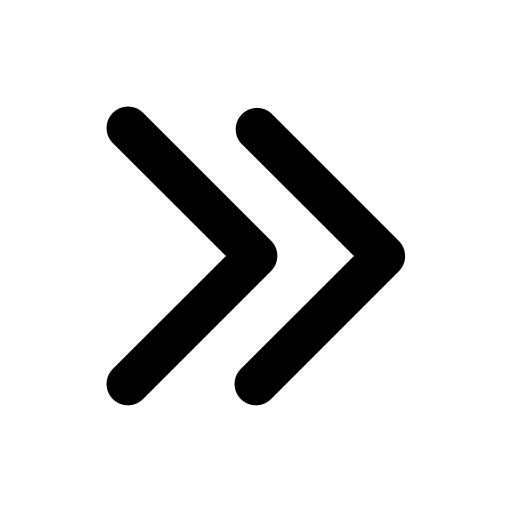
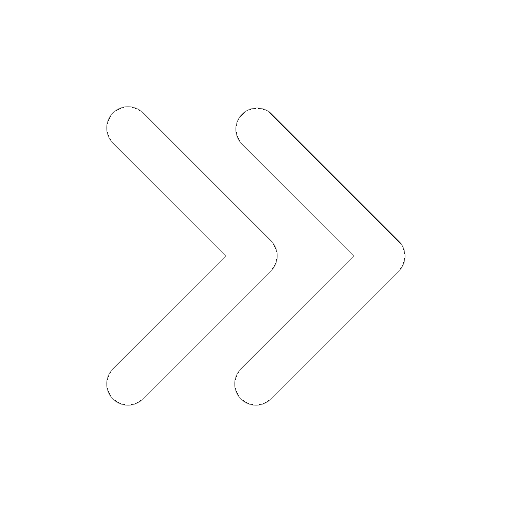
Updates

Changed region(s): [[0.1875, 0.1875, 0.5625, 0.8125], [0.4375, 0.1875, 0.8125, 0.8125]]

diff --git a/sw.js b/sw.js
@@ -1,1 +1,1 @@
-if(!self.define){let e,s={};const n=(n,l)=>(n=new URL(n+".js",l).href,s[n]||new Promise(s=>{if("document"in self){const e=document.createElement("script");e.src=n,e.onload=s,document.head.appendChild(e)}else e=n,importScripts(n),s()}).then(()=>{let e=s[n];if(!e)throw new Error(`Module ${n} didn’t register its module`);return e}));self.define=(l,i)=>{const r=e||("document"in self?document.currentScript.src:"")||location.href;if(s[r])return;let o={};const a=e=>n(e,r),u={module:{uri:r},exports:o,require:a};s[r]=Promise.all(l.map(e=>u[e]||a(e))).then(e=>(i(...e),o))}}define(["./workbox-bdb082da"],function(e){"use strict";self.skipWaiting(),e.clientsClaim(),e.precacheAndRoute([{url:"vite.svg",revision:"8e3a10e157f75ada21ab742c022d5430"},{url:"registerSW.js",revision:"bb1e455dc79c04e6210fa72213e31a4e"},{url:"muscle.svg",revision:"dc1a8eee285740422ed9fc34b0ad91df"},{url:"index.html",revision:"2409eed2bdbe522202842ffeb5f91aea"},{url:"icon-512.png",revision:"61d2cb498f2c9083308432c7224dceaa"},{url:"icon-192.png",revision:"c452d73bea6a61804e8a31c63aec638f"},{url:"assets/WingsofStrength-Logo-2019-RGB-DRhgHrX-.png",revision:null},{url:"assets/USA Fed Logo PNG-CxnrlUPo.png",revision:null},{url:"assets/TSUNAMI LOGO-black font-BIR9LDHE.png",revision:null},{url:"assets/thumbnail_2.0 titan-final-registered-jAv88-T9.png",revision:null},{url:"assets/superfitness-ot1TKYUa.png",revision:null},{url:"assets/Steel-Fit-Logo-Horiz-Tag_140851-DMePG8wW.jpg",revision:null},{url:"assets/Rosen LOGO-CweZPPp_.png",revision:null},{url:"assets/REIGN Logo-C0k8grbR.png",revision:null},{url:"assets/REDCON1_MAIN_LOGO_RED-B-KsOSbY.png",revision:null},{url:"assets/red one logo-cwQVg1tO.png",revision:null},{url:"assets/RAW-Logo-01-BD9bQXZw.png",revision:null},{url:"assets/ProTan-DyyOSX43.jpg",revision:null},{url:"assets/Orange and Black Logo-CliRBQB4.png",revision:null},{url:"assets/Olympia Trading Cards Black-BIOrwcSW.png",revision:null},{url:"assets/OFFICAL WOLF HEAD LOGO-11q05Uxd.png",revision:null},{url:"assets/NEWTECH LOGO_OLYMPIA-Cpt64ABa.png",revision:null},{url:"assets/Nebbia-T92H5YCY.jpg",revision:null},{url:"assets/Mutant_Brandmark_Stacked_v1_Black_RGB PREFERRED FOR WHITE BACKGROUND-DOM2-3Vq.png",revision:null},{url:"assets/Logo_stacked_blue-JJfA1f4R.png",revision:null},{url:"assets/logoDKnew-BGzbz8av.png",revision:null},{url:"assets/Logo 2_150944 Enhanced-BY9kUkwd.png",revision:null},{url:"assets/jw sport logo-BKbada1Z.png",revision:null},{url:"assets/IntegralMedicaLogo-Dv_Wgnd1.png",revision:null},{url:"assets/index-DUM_2KRf.js",revision:null},{url:"assets/index-9dGm7ZXG.css",revision:null},{url:"assets/HTP-logo-RGB-BgxPgIaI.png",revision:null},{url:"assets/Gymshark_Combi_Logo_Black-Bjd_43Bd.png",revision:null},{url:"assets/Gym80 black and red logo-BMZvclKY.png",revision:null},{url:"assets/GNC Logo Red-DvYZVH_G.jpg",revision:null},{url:"assets/evolgear_logo_bk-BUhnIpM0.png",revision:null},{url:"assets/Evogen logo title safety white on black2-CH9qPnpF.png",revision:null},{url:"assets/BUM ENERGY LOGO BLACK-BpfpVTbc.png",revision:null},{url:"assets/Biowell_Labs_BIALE NOWA STRONA-SzgmWe0j.png",revision:null},{url:"assets/4-Elev8_Logo-black-Cl_yfecE.png",revision:null},{url:"icon-192.png",revision:"c452d73bea6a61804e8a31c63aec638f"},{url:"icon-512.png",revision:"61d2cb498f2c9083308432c7224dceaa"},{url:"muscle.svg",revision:"dc1a8eee285740422ed9fc34b0ad91df"},{url:"manifest.webmanifest",revision:"e74645f8c6bda2dd33220b0c2d41c894"}],{}),e.cleanupOutdatedCaches(),e.registerRoute(new e.NavigationRoute(e.createHandlerBoundToURL("index.html"))),e.registerRoute(/^https:\/\/.*\.supabase\.co\/.*/i,new e.NetworkFirst({cacheName:"supabase-cache",plugins:[new e.ExpirationPlugin({maxEntries:50,maxAgeSeconds:86400})]}),"GET"),e.registerRoute(/\.(?:png|jpg|jpeg|svg|gif)$/,new e.CacheFirst({cacheName:"images-cache",plugins:[new e.ExpirationPlugin({maxEntries:100,maxAgeSeconds:2592e3})]}),"GET")});
+if(!self.define){let e,s={};const n=(n,l)=>(n=new URL(n+".js",l).href,s[n]||new Promise(s=>{if("document"in self){const e=document.createElement("script");e.src=n,e.onload=s,document.head.appendChild(e)}else e=n,importScripts(n),s()}).then(()=>{let e=s[n];if(!e)throw new Error(`Module ${n} didn’t register its module`);return e}));self.define=(l,i)=>{const r=e||("document"in self?document.currentScript.src:"")||location.href;if(s[r])return;let o={};const a=e=>n(e,r),u={module:{uri:r},exports:o,require:a};s[r]=Promise.all(l.map(e=>u[e]||a(e))).then(e=>(i(...e),o))}}define(["./workbox-bdb082da"],function(e){"use strict";self.skipWaiting(),e.clientsClaim(),e.precacheAndRoute([{url:"vite.svg",revision:"8e3a10e157f75ada21ab742c022d5430"},{url:"registerSW.js",revision:"bb1e455dc79c04e6210fa72213e31a4e"},{url:"muscle.svg",revision:"dc1a8eee285740422ed9fc34b0ad91df"},{url:"index.html",revision:"2409eed2bdbe522202842ffeb5f91aea"},{url:"icon-512.png",revision:"7782f43d50ac0499ee5c931b5b95bed2"},{url:"icon-192.png",revision:"7cfe4682b7df06d558eb6bd44323eca8"},{url:"assets/WingsofStrength-Logo-2019-RGB-DRhgHrX-.png",revision:null},{url:"assets/USA Fed Logo PNG-CxnrlUPo.png",revision:null},{url:"assets/TSUNAMI LOGO-black font-BIR9LDHE.png",revision:null},{url:"assets/thumbnail_2.0 titan-final-registered-jAv88-T9.png",revision:null},{url:"assets/superfitness-ot1TKYUa.png",revision:null},{url:"assets/Steel-Fit-Logo-Horiz-Tag_140851-DMePG8wW.jpg",revision:null},{url:"assets/Rosen LOGO-CweZPPp_.png",revision:null},{url:"assets/REIGN Logo-C0k8grbR.png",revision:null},{url:"assets/REDCON1_MAIN_LOGO_RED-B-KsOSbY.png",revision:null},{url:"assets/red one logo-cwQVg1tO.png",revision:null},{url:"assets/RAW-Logo-01-BD9bQXZw.png",revision:null},{url:"assets/ProTan-DyyOSX43.jpg",revision:null},{url:"assets/Orange and Black Logo-CliRBQB4.png",revision:null},{url:"assets/Olympia Trading Cards Black-BIOrwcSW.png",revision:null},{url:"assets/OFFICAL WOLF HEAD LOGO-11q05Uxd.png",revision:null},{url:"assets/NEWTECH LOGO_OLYMPIA-Cpt64ABa.png",revision:null},{url:"assets/Nebbia-T92H5YCY.jpg",revision:null},{url:"assets/Mutant_Brandmark_Stacked_v1_Black_RGB PREFERRED FOR WHITE BACKGROUND-DOM2-3Vq.png",revision:null},{url:"assets/Logo_stacked_blue-JJfA1f4R.png",revision:null},{url:"assets/logoDKnew-BGzbz8av.png",revision:null},{url:"assets/Logo 2_150944 Enhanced-BY9kUkwd.png",revision:null},{url:"assets/jw sport logo-BKbada1Z.png",revision:null},{url:"assets/IntegralMedicaLogo-Dv_Wgnd1.png",revision:null},{url:"assets/index-DUM_2KRf.js",revision:null},{url:"assets/index-9dGm7ZXG.css",revision:null},{url:"assets/HTP-logo-RGB-BgxPgIaI.png",revision:null},{url:"assets/Gymshark_Combi_Logo_Black-Bjd_43Bd.png",revision:null},{url:"assets/Gym80 black and red logo-BMZvclKY.png",revision:null},{url:"assets/GNC Logo Red-DvYZVH_G.jpg",revision:null},{url:"assets/evolgear_logo_bk-BUhnIpM0.png",revision:null},{url:"assets/Evogen logo title safety white on black2-CH9qPnpF.png",revision:null},{url:"assets/BUM ENERGY LOGO BLACK-BpfpVTbc.png",revision:null},{url:"assets/Biowell_Labs_BIALE NOWA STRONA-SzgmWe0j.png",revision:null},{url:"assets/4-Elev8_Logo-black-Cl_yfecE.png",revision:null},{url:"icon-192.png",revision:"7cfe4682b7df06d558eb6bd44323eca8"},{url:"icon-512.png",revision:"7782f43d50ac0499ee5c931b5b95bed2"},{url:"muscle.svg",revision:"dc1a8eee285740422ed9fc34b0ad91df"},{url:"manifest.webmanifest",revision:"e74645f8c6bda2dd33220b0c2d41c894"}],{}),e.cleanupOutdatedCaches(),e.registerRoute(new e.NavigationRoute(e.createHandlerBoundToURL("index.html"))),e.registerRoute(/^https:\/\/.*\.supabase\.co\/.*/i,new e.NetworkFirst({cacheName:"supabase-cache",plugins:[new e.ExpirationPlugin({maxEntries:50,maxAgeSeconds:86400})]}),"GET"),e.registerRoute(/\.(?:png|jpg|jpeg|svg|gif)$/,new e.CacheFirst({cacheName:"images-cache",plugins:[new e.ExpirationPlugin({maxEntries:100,maxAgeSeconds:2592e3})]}),"GET")});
